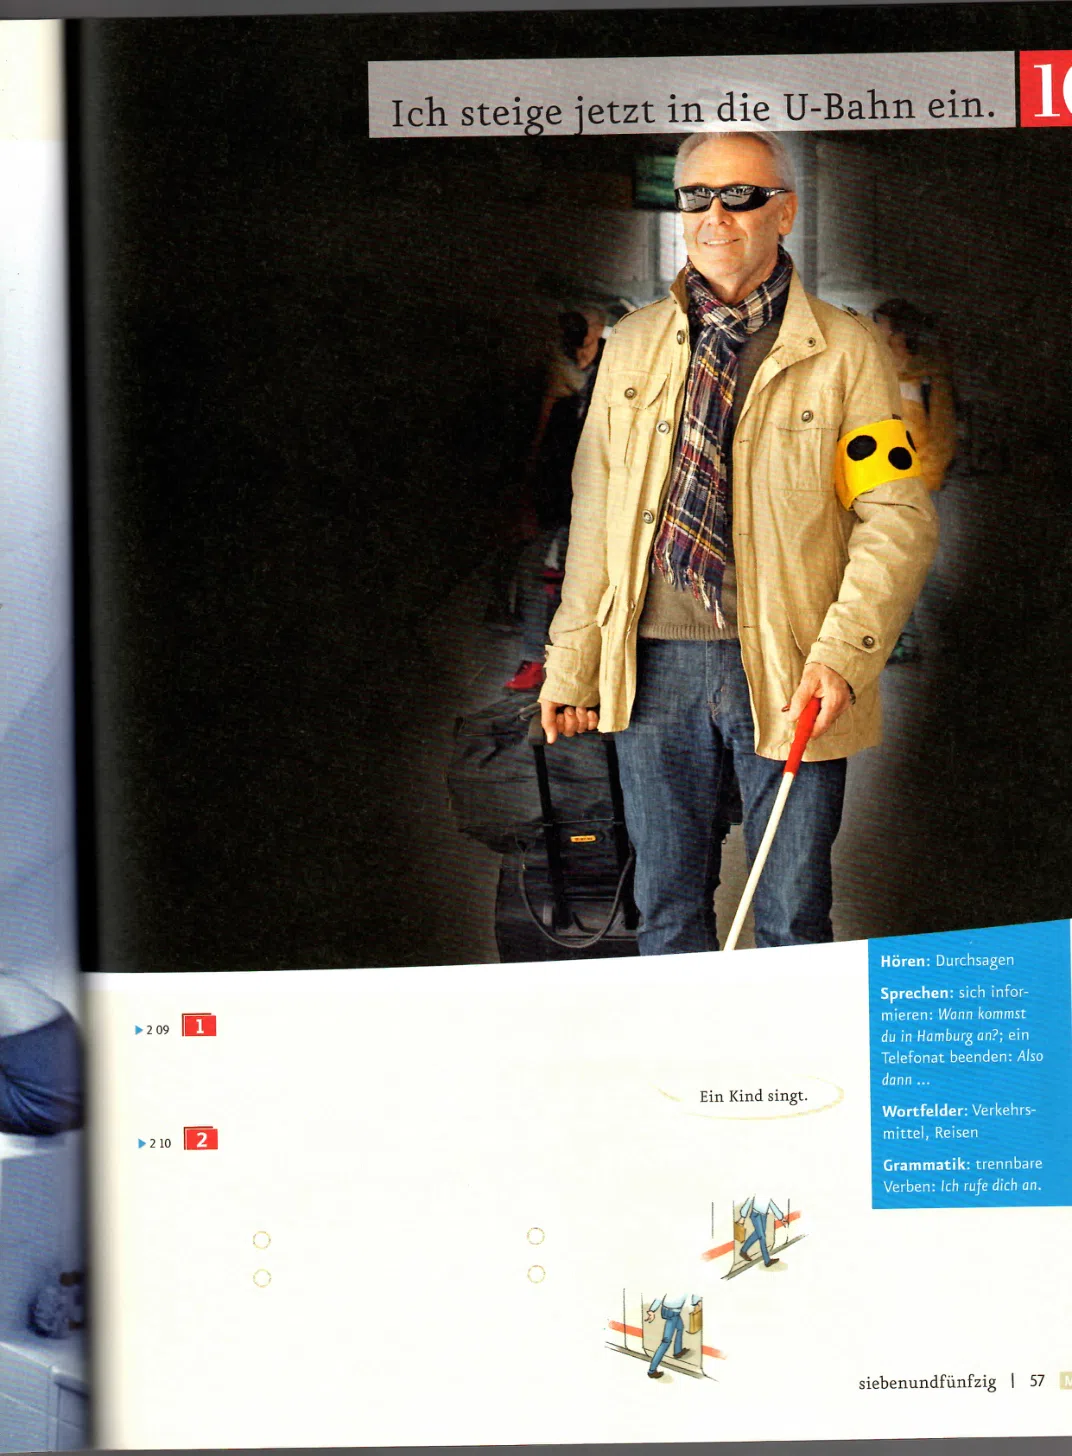
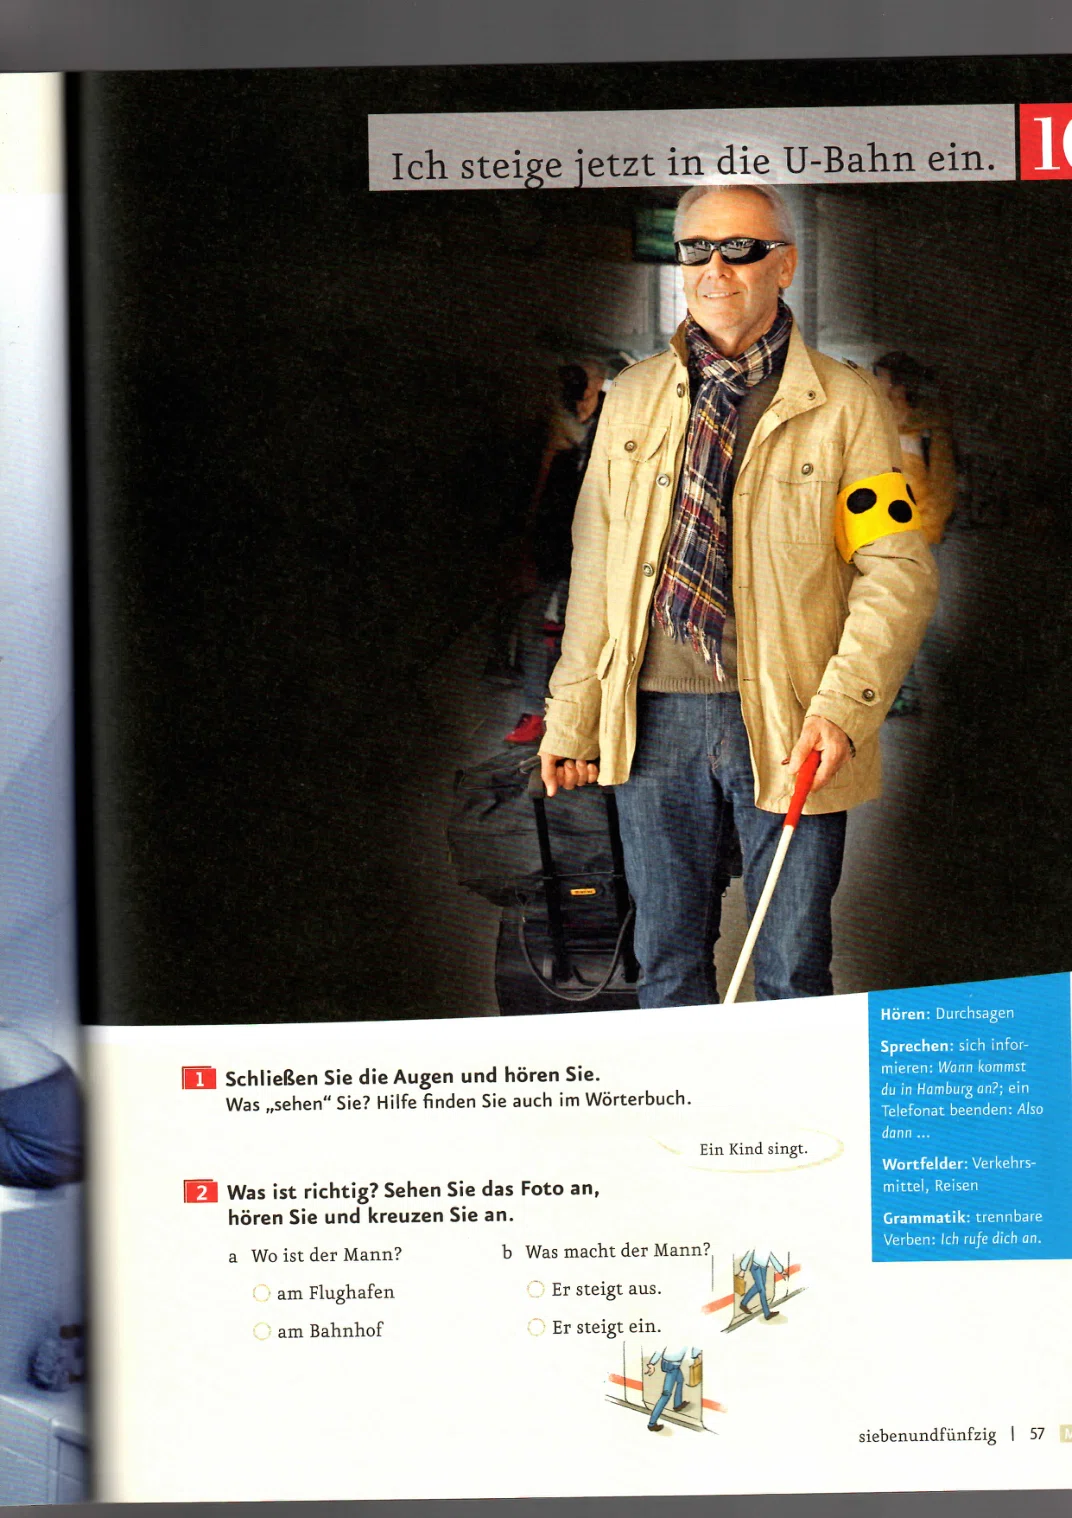
Convert KB A1.1 p57 with source-faithful native controls

diff --git a/src/components/native-kb11.css b/src/components/native-kb11.css
@@ -177,3 +177,4 @@
 .nkb[data-native-page="22"] .nkbLine.nkbSans:not(.nkbB){opacity:.97}
 .nkb[data-native-page="22"] input.nkbField[data-native-field^="t2-"]{font-size:1.64cqw!important;opacity:.95}
 .nkb[data-native-page="56"] .nkbCanvas input[type=text].nkbField{border-radius:50%!important;border:1px solid transparent!important;background:transparent!important;text-align:center;padding:0!important}
+.nkb[data-native-page="57"] .nkbCanvas input[type=radio].nkbField{--answer-cross-size:56%!important;outline-offset:-2px}
